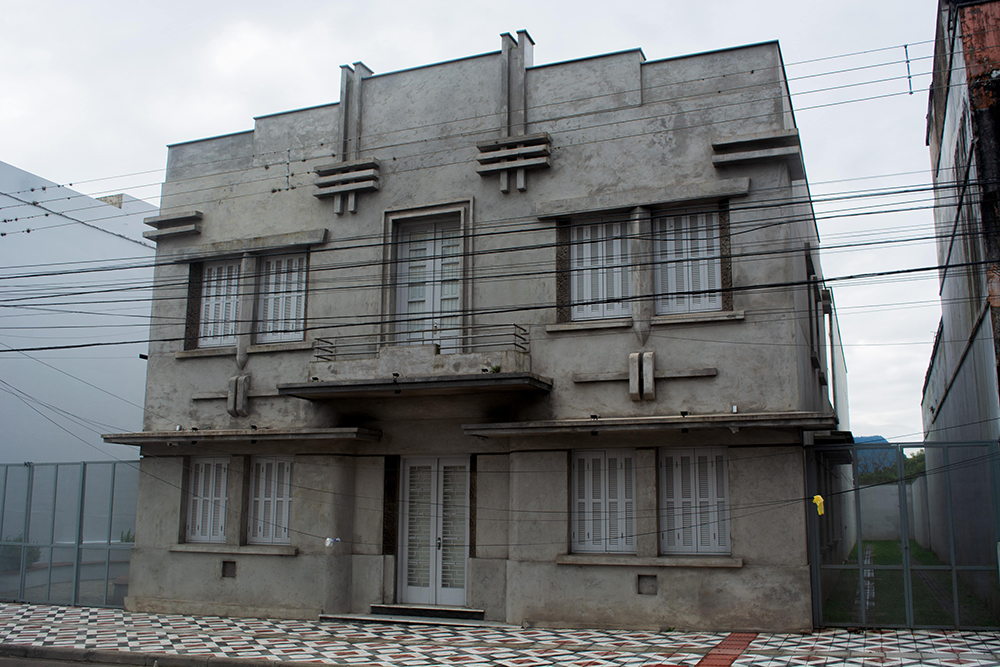
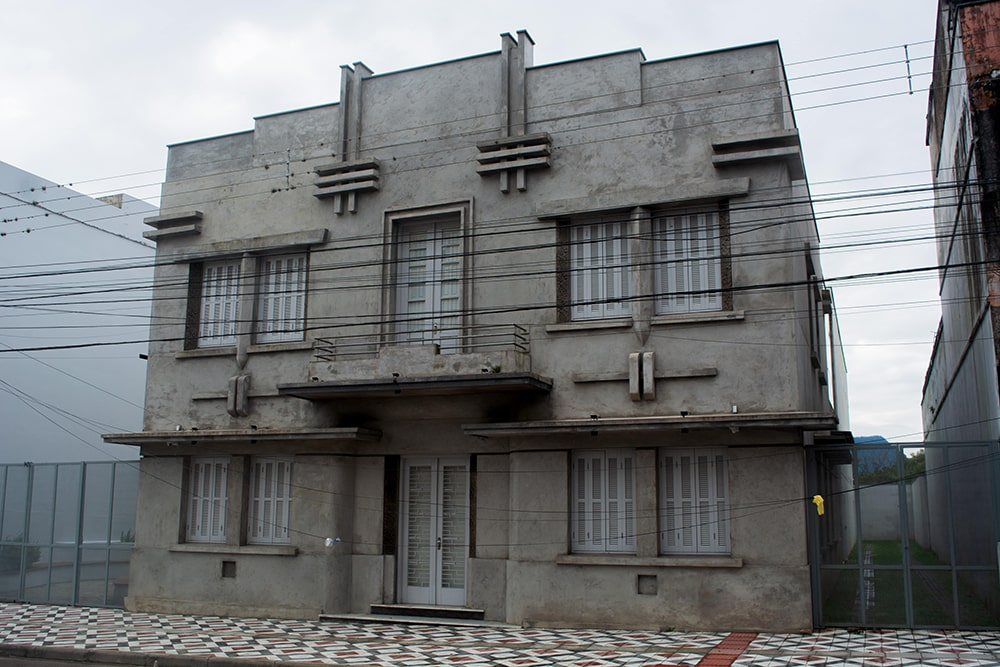
fotos atualizadas de novo

Changed region(s): [[0.403, 0.9895, 0.496, 1.0], [0.527, 0.9895, 0.589, 1.0]]

diff --git a/mapatabela.html b/mapatabela.html
@@ -126,7 +126,7 @@ document.addEventListener("DOMContentLoaded", () => {
   <div class="frame-parent">
     <!-- card 1 -->
     <article class="card">
-      <img class="frame-child" src="assets/fotografia/_DSC0820.jpg" alt="Edifício Cauduro">
+      <img class="frame-child" src="assets/fotografia/Cauduro.jpg" alt="Edifício Cauduro">
       <h3 class="card-title">Edifício Cauduro</h3>
       <p class="av-rio-branco">Av. Rio Branco, 893 - Centro, Santa Maria</p>
       <a href="paginascms/cauduro.html" class="btn">Saiba mais</a>

diff --git a/map.html b/map.html
@@ -1152,7 +1152,7 @@ document.addEventListener("DOMContentLoaded", () => {
 
 <div id="popupCauduro" class="popup-overlay">
   <div class="popup-content">
-    <div id="popup-mapa-overlay" style="background: url('assets/fotografia/_DSC0820.jpg') center/cover no-repeat">
+    <div id="popup-mapa-overlay" style="background: url('assets/fotografia/Cauduro.jpg') center/cover no-repeat">
       <div class="fecharPopup" title="Fechar">
         <img src="assets/icones/x-square.svg" alt="Fechar popup" />
       </div>
